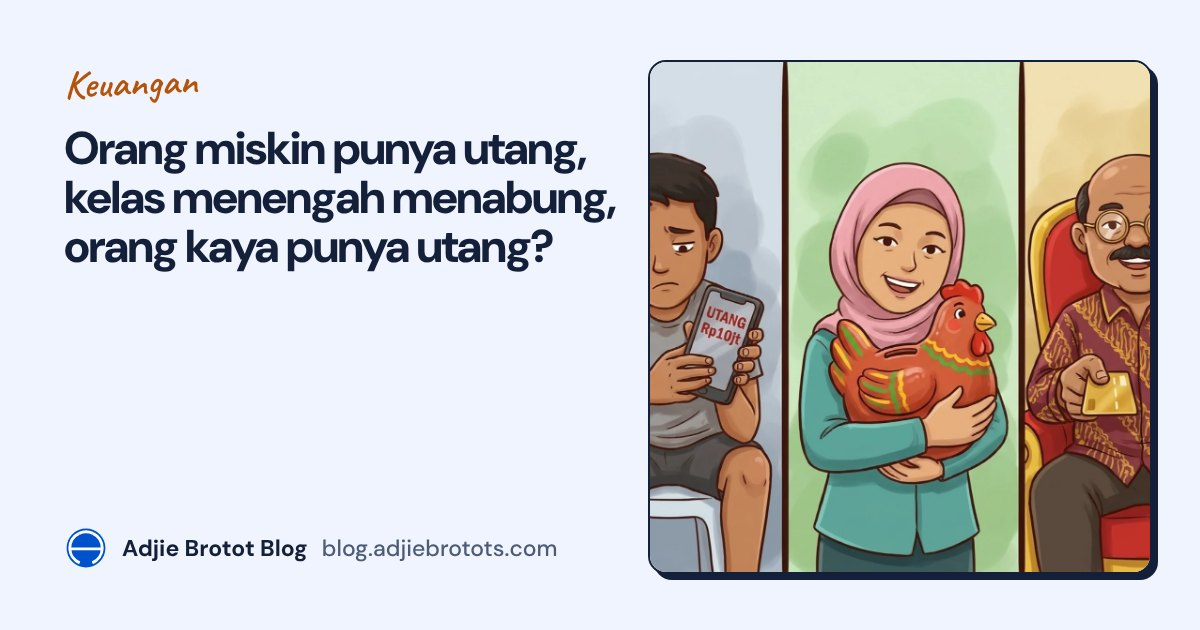
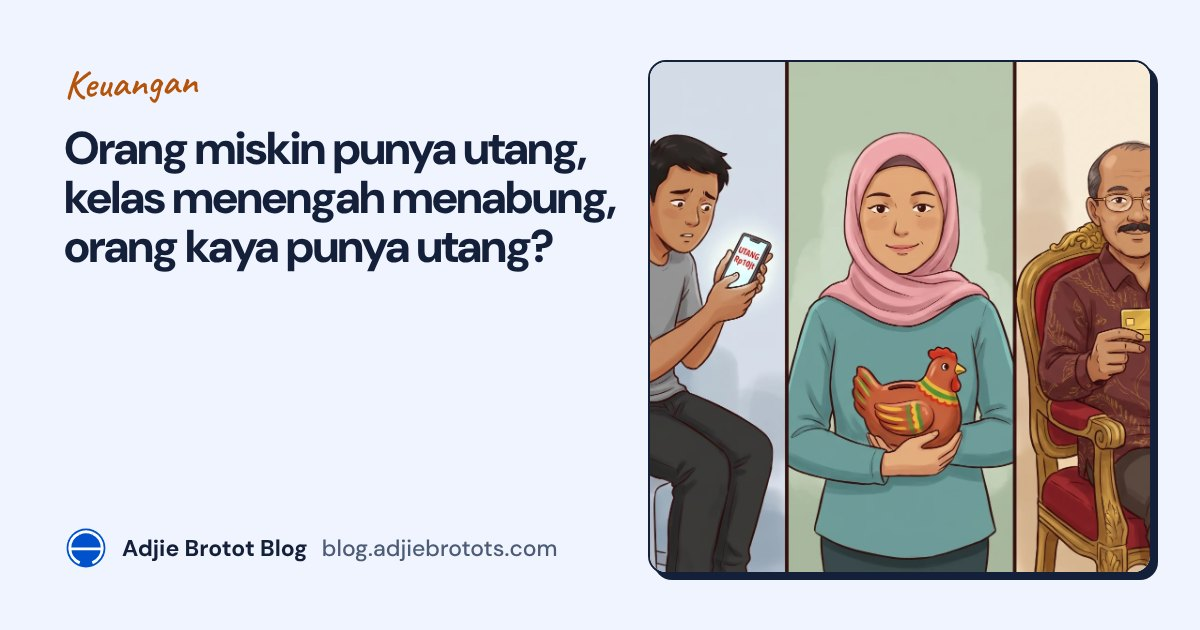
Redraw the three-people illustration in the debt posts
Regenerated both versions (is-debt-bad and utang-baik-atau-buruk) with
gemini-3-pro-image for a cleaner wikiHow-style look: thin panel dividers,
pale washes, calmer faces and the debt amount on the phone screen. The
social cards are redrawn from the new pictures.

Claude-Session: https://claude.ai/code/session_01QpNtMi9Lp3Ui2mqzXwzeFA

Changed region(s): [[0.5242, 0.0905, 0.9558, 0.9349]]

diff --git a/en/_posts/2026-10-31-is-debt-bad.md b/en/_posts/2026-10-31-is-debt-bad.md
@@ -20,7 +20,7 @@ keywords: [is debt bad, good debt vs bad debt, interest free installments, buy n
 Meet three people. The first stares at his phone and winces: $10K owing, and payday is still nine days away. The second hugs her piggy bank and smiles, because she has never owed anyone a cent. And the third, lounging on something that looks suspiciously like a throne, hands his credit card to a waiter and smiles too.
 
 <figure>
-<img src="/assets/img/debt-ill-three-people-en.webp" alt="Three people side by side: a young man on a stool looks sadly at his phone showing DEBT $10K, a smiling woman hugs a pink piggy bank, and a grey-haired man in a suit on a red and gold throne-like chair holds out a gold credit card" width="1456" height="1087" loading="lazy">
+<img src="/assets/img/debt-ill-three-people-en.webp" alt="Three people side by side: a young man on a stool looks sadly at his phone showing DEBT $10K, a smiling woman hugs a pink piggy bank, and a grey-haired man in a suit on a red and gold throne-like chair holds out a gold credit card" width="1200" height="896" loading="lazy">
 </figure>
 
 Two of the three are in debt, and only one of them is worried. If debt is bad, why is the richest person in the picture borrowing on purpose? And where do I sit? Somewhere between the second and the third: the middle class trying very hard to be rich, which so far mostly means I've picked up the third one's habits before his bank balance.
